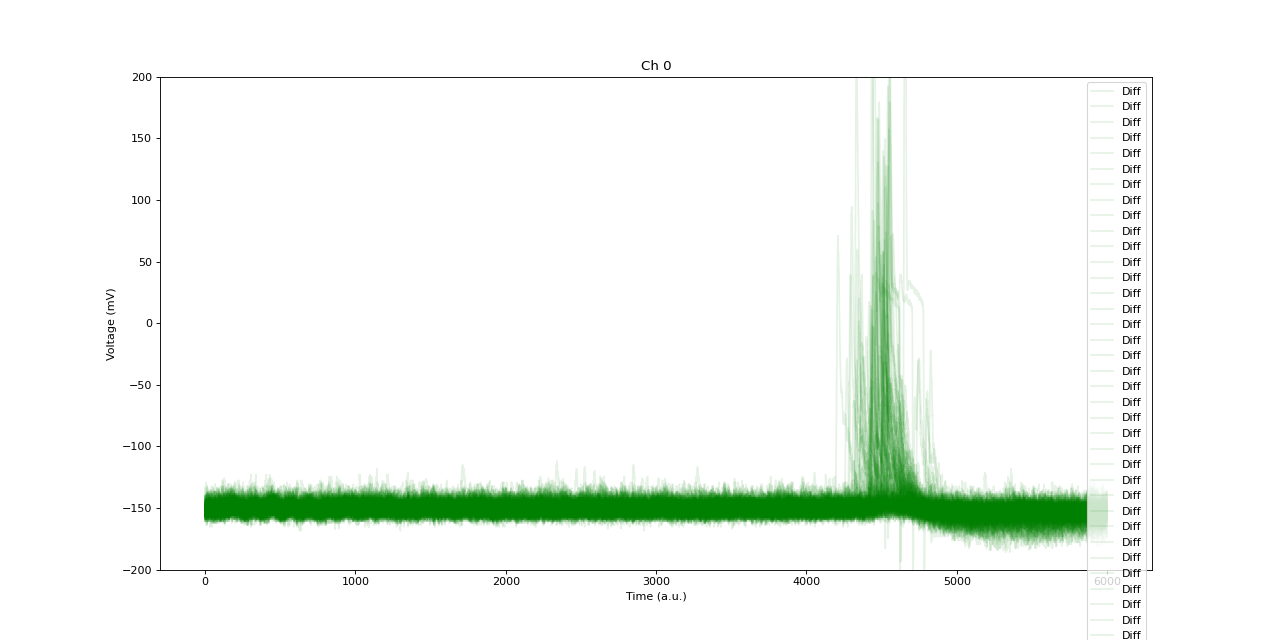
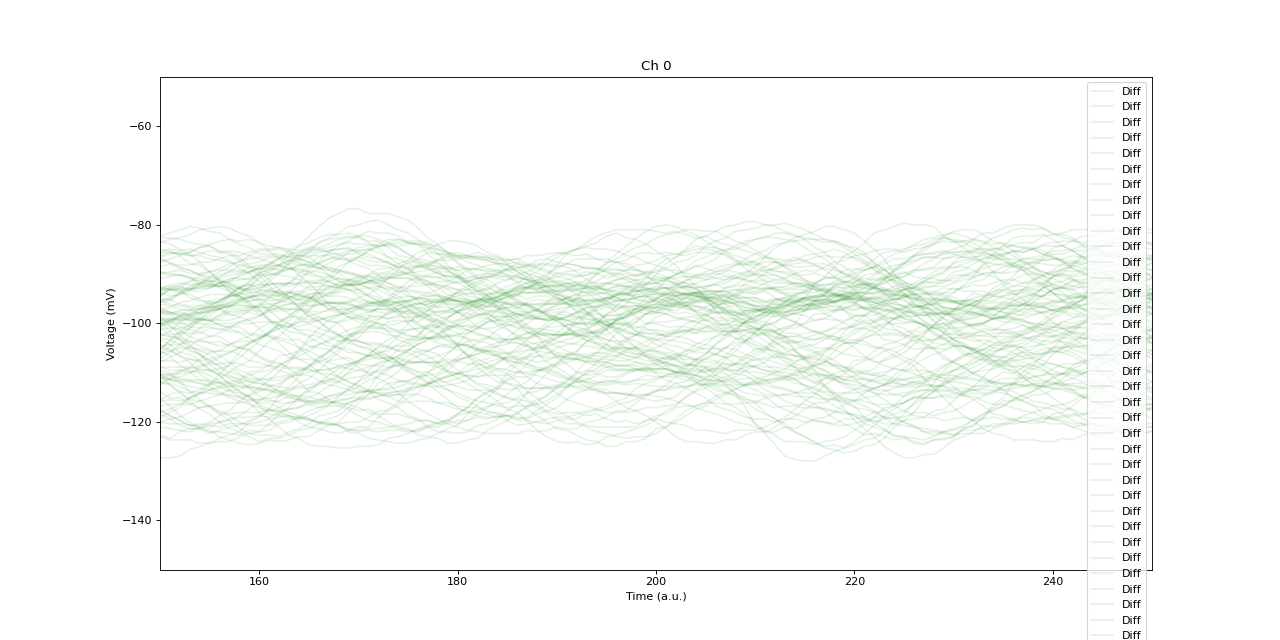
June 29 Fibre + Gain Tests

diff --git a/AnalysisScripts/CurrentScripts/MPPCAnalysisFunctions23.py b/AnalysisScripts/CurrentScripts/MPPCAnalysisFunctions23.py
@@ -250,18 +250,18 @@ def PlotWaveformsFromAFile(FName,plotch=-1,start=-1,end=-1):
             if(AnalyseFlag==1):
                 Signal = Waveforms[ch][i]
                 #plt.plot(Signal,alpha=0.1,color='b',label='Raw')
-                if(FreqF ==1): Signal = FFTFilter(Signal)   ### Move this before the moving average filter
+                #if(FreqF ==1): Signal = FFTFilter(Signal)   ### Move this before the moving average filter
                 #plt.plot(Signal,alpha=0.1,label='FFT')
                 #if(DiffF==1): Signal = DiffFilter(Signal)
                 #plt.plot(Signal,alpha = 0.5, label = 'Diff')
                 if(MovAvF==1): Signal = MovAvFilter(Signal)
                 #if(FreqF ==1): Signal = FFTFilter(Signal)   ### Move this before the moving average filter
                 #plt.plot(Signal,alpha=0.1,color='r',label='MA')
-                if(DiffF==1): Signal = DiffFilter(Signal)
+                #if(DiffF==1): Signal = DiffFilter(Signal)
                 plt.plot(Signal,alpha = 0.1,color='g', label = 'Diff')
-                if(BaseF ==1): Signal = BaselineFilter(ch,Signal)
-                Signal = Polarity[int(ch)]*Signal
-                ChT = np.linspace(0,len(Signal)*TimeScale,len(Signal)) #All channels have a dt = 0.8 ns
+                #if(BaseF ==1): Signal = BaselineFilter(ch,Signal)
+                #Signal = Polarity[int(ch)]*Signal
+                #ChT = np.linspace(0,len(Signal)*TimeScale,len(Signal)) #All channels have a dt = 0.8 ns
                 BU = BaseUpper[ch]
                 SU = SigUpper[ch]
                 SL = SigLower[ch]
@@ -289,8 +289,8 @@ def PlotWaveformsFromAFile(FName,plotch=-1,start=-1,end=-1):
                 plt.plot(PlotSignal,alpha=0.1)
             plt.xlabel("Time (a.u.)")
             plt.ylabel("Voltage (mV)")
-            plt.ylim([-200,200])
-            #plt.xlim([0,1500])
+            plt.ylim([-150,-50])
+            plt.xlim([150,250])
             plt.legend()
             plt.title("Ch "+str(ch))
 
@@ -551,11 +551,11 @@ def AnalyseFolder(FPath,PlotFlag=False,start=0,end=0):
         timeArray.append(timeArrayTmp)
     
     for ch in range(NCh): 
-        #nBins, vals = PlotHistogram(heightArray[ch],RangeLower[ch],RangeUpper[ch],NBins[ch],str(dataArray.getChannel(0)), "Peak height [mV]")
+        nBins, vals = PlotHistogram(heightArray[ch],RangeLower[ch],RangeUpper[ch],NBins[ch],str(dataArray.getChannel(0)), "Peak height [mV]")
           
         #Coincidence Plotting
         t_thresh = 10
-        nBins, vals = PlotHistogram(heightArray[ch][((heightArray[2]>-70)|(heightArray[3]>-70))&(((timeArray[3]-timeArray[0])<t_thresh)|((timeArray[3]-timeArray[1])<t_thresh)|((timeArray[2]-timeArray[0])<t_thresh)|((timeArray[2]-timeArray[1])<t_thresh))],RangeLower[ch],RangeUpper[ch],NBins[ch],str(dataArray.getChannel(0)), "Peak height [mV]")
+        #nBins, vals = PlotHistogram(heightArray[ch][((heightArray[2]>-70)|(heightArray[3]>-70))&(((timeArray[3]-timeArray[0])<t_thresh)|((timeArray[3]-timeArray[1])<t_thresh)|((timeArray[2]-timeArray[0])<t_thresh)|((timeArray[2]-timeArray[1])<t_thresh))],RangeLower[ch],RangeUpper[ch],NBins[ch],str(dataArray.getChannel(0)), "Peak height [mV]")
         
         ChPeakData.append(nBins)
         ChPeakData.append(vals)

diff --git a/AnalysisScripts/CurrentScripts/myAna23SingleDataSet.py b/AnalysisScripts/CurrentScripts/myAna23SingleDataSet.py
@@ -76,13 +76,13 @@ def main():
         
         AllBins.append(pbins)
         AllVals.append(pvals)
-        #fig, axes = plt.subplots(1,nch)
+        fig, axes = plt.subplots(1,2)
     
         for i in range(nch):
-            #axes[i].bar(pbins[i][:-1],pvals[i],width=pbins[i][1]-pbins[i][0],color='blue')
-            #axes[i].set_xlabel("Peak Voltage (mV)")
-            #axes[i].set_ylabel("Count")
-            #axes[i].set_title("Channel "+str(i)) 
+            axes[i].bar(pbins[i][:-1],pvals[i],width=pbins[i][1]-pbins[i][0],color='blue')
+            axes[i].set_xlabel("Peak Voltage (mV)")
+            axes[i].set_ylabel("Count")
+            axes[i].set_title("Channel "+str(i)) 
             
             #axes[i].set_ylim([0,30])
             #use axes[0,i] for one subplot, no idea why?
@@ -174,10 +174,10 @@ def main():
                 NDF = len(ydata) - len(popt)
                 print("chisquare/NDF = {0:.2f} / {1:d} = {2:.2f}".format(test_statistic, NDF, test_statistic / float(NDF)))
                 #os.system("mv ./"+str(FileNaming)+"Landau* /mnt/c/Users/yfuj0004/work/")
-        #fig = plt.gcf()
-        #fig.set_size_inches(19.20,10.80)
-        #fig.tight_layout()
-        #fig.savefig(str(FileNaming)+'Fit_'+str(count)+'.png',bbox_inches='tight',dpi=200)
+        fig = plt.gcf()
+        fig.set_size_inches(19.20,10.80)
+        fig.tight_layout()
+        fig.savefig(str(FileNaming)+'Fit_'+str(count)+'.png',bbox_inches='tight',dpi=200)
         count = count+1
         
         #fig, axes = plt.subplots(1,nch)
@@ -189,13 +189,13 @@ def main():
         #    axes[i].set_title("Channel "+str(i)) 
     #plt.show()
     
-    fig, axes = plt.subplots(1,2)
-    for i in range(len(AllBins)): 
-        for j in range(2):
-            axes[j].bar(AllBins[i][j][:-1],AllVals[i][j],width=AllBins[i][j][1]-AllBins[i][j][0],alpha=0.5,label = 'Dataset '+str(i))
-            axes[j].set_xlabel("Peak Voltage (mV)")
-            axes[j].set_ylabel("Count")
-            axes[j].set_title("Channel "+str(j)) 
+    #fig, axes = plt.subplots(1,2)
+    #for i in range(len(AllBins)): 
+    #    for j in range(2):
+    #        axes[j].bar(AllBins[i][j][:-1],AllVals[i][j],width=AllBins[i][j][1]-AllBins[i][j][0],alpha=0.5,label = 'Dataset '+str(i))
+    #        axes[j].set_xlabel("Peak Voltage (mV)")
+    #        axes[j].set_ylabel("Count")
+    #        axes[j].set_title("Channel "+str(j)) 
 
     #print("Data")
     #print(MeanPeakVals)

diff --git a/AnalysisScripts/CurrentScripts/plotWf.py b/AnalysisScripts/CurrentScripts/plotWf.py
@@ -34,7 +34,7 @@ def main(output,plotch,start,end):
         myFunc.SetBins(histogram["BinSize"],histogram["LowerRange"],histogram["UpperRange"])
         myFunc.SetSignalWindow(np.array(analysisWindow["Start"]),np.array(analysisWindow["Stop"]),np.array(analysisWindow["Baseline"]))
         #myFunc.EnableDiffFilter(filtering["DiffPoints"])
-        #myFunc.EnableMovingAverageFilter(filtering["MovingAveragePoints"])
+        myFunc.EnableMovingAverageFilter(filtering["MovingAveragePoints"])
         #myFunc.EnableFFTFilter(filtering["UpperFFTCutoffFrequency"],filtering["LowerFFTCutoffFrequency"])
        # myFunc.EnableBaselineFilter()
         #nch, trR, hData = myFunc.AnalyseFolder(f,False)
